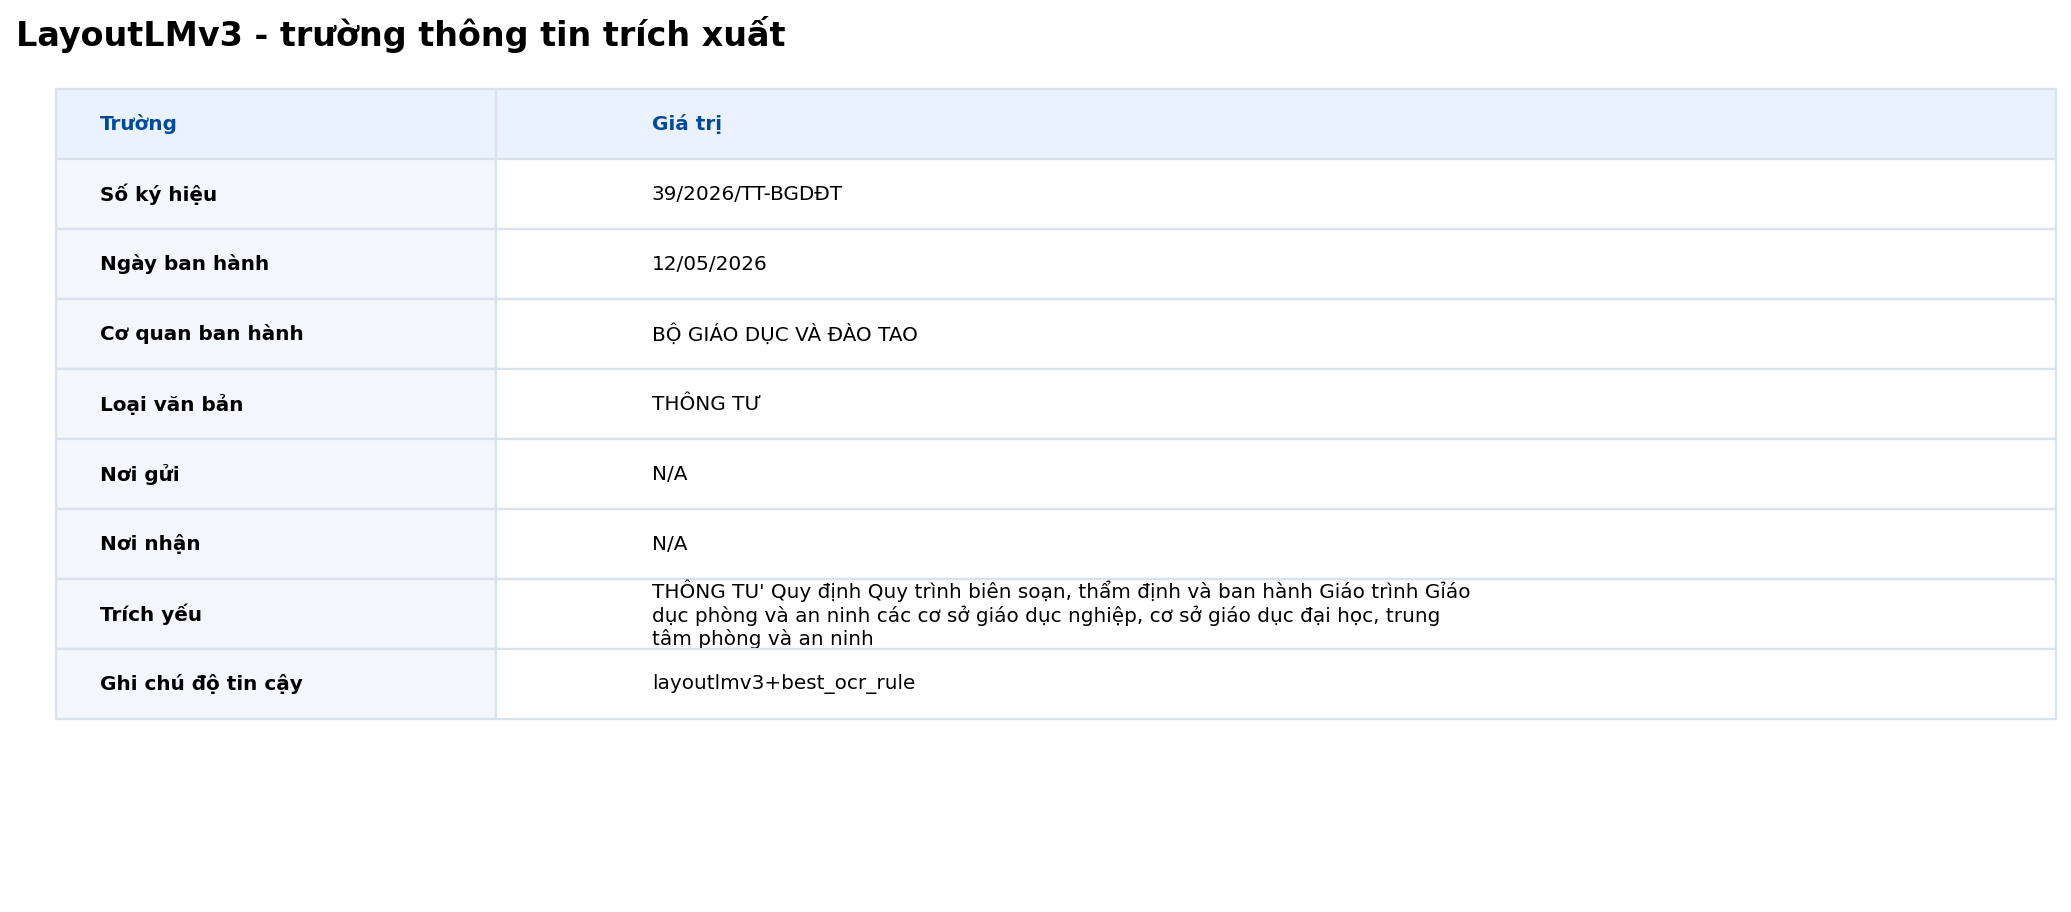
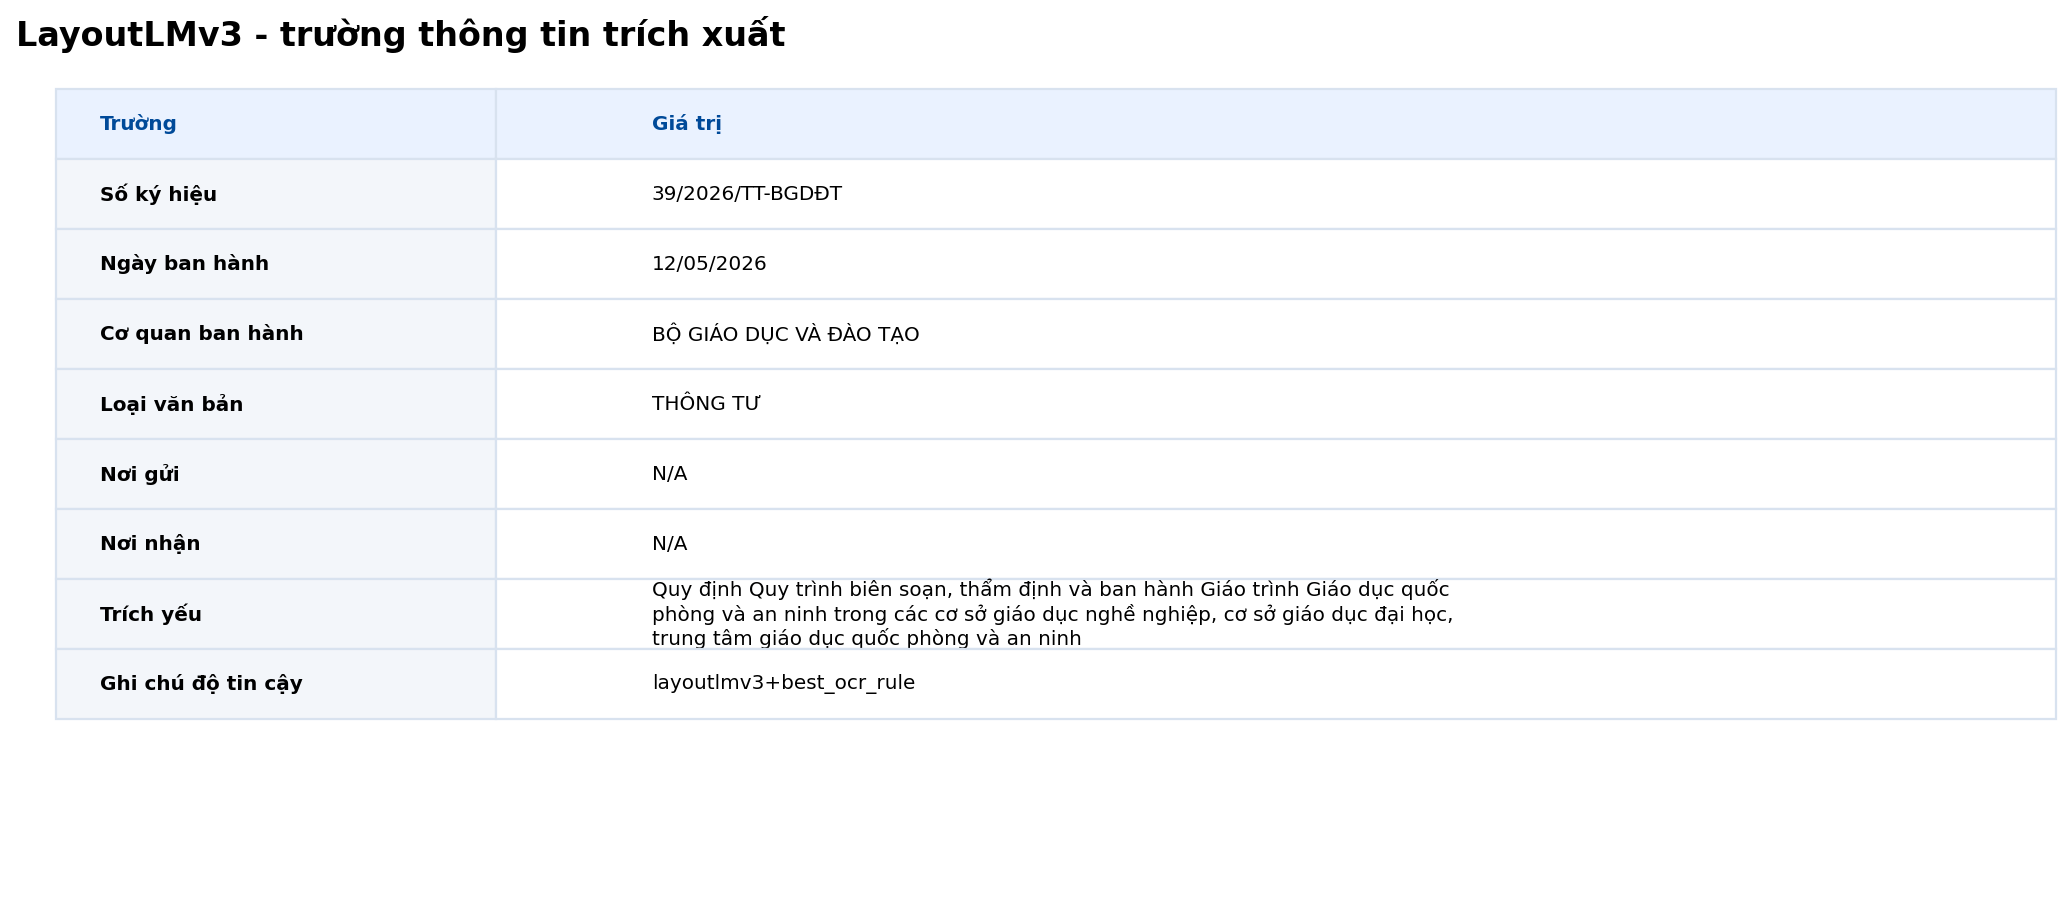
Update benchmark report with refreshed LayoutLMv3 fields

Changed region(s): [[0.309, 0.614, 0.7108, 0.7061]]

diff --git a/reports/benchmark_technical_report/OCR_BENCHMARK_TECHNICAL_REPORT.md b/reports/benchmark_technical_report/OCR_BENCHMARK_TECHNICAL_REPORT.md
@@ -3,7 +3,7 @@
 **Đề tài:** Ứng dụng OCR kết hợp chữ ký số trong quản lý công văn điện tử tiếng Việt  
 **Dữ liệu phân tích:** toàn bộ kết quả đã scan trong thư mục `jobs/`, phân tích sâu job mới nhất `2bbba632396d`  
 **File scan mới nhất:** `upload\39-bgddt.pdf`  
-**Thời điểm cập nhật số liệu:** 2026-06-01 23:48:11  
+**Thời điểm cập nhật số liệu:** 2026-06-02 05:05:32  
 
 ## 1. Tóm tắt nghiên cứu
 
@@ -221,18 +221,18 @@ OCR và LayoutLMv3 có vai trò khác nhau. OCR nhận dạng chữ từ ảnh; 
 | Torch device | `cuda` |
 | Field label schema | `True` |
 | Field source | `layoutlmv3+best_ocr_rule` |
-| Accepted model fields | `0` |
+| Accepted model fields | `2` |
 | Rejected model fields | `1` |
 
 | Trường | Giá trị trích xuất | Nguồn/nhận xét |
 |---|---|---|
 | Số ký hiệu | 39/2026/TT-BGDĐT | layoutlmv3+best_ocr_rule |
 | Ngày ban hành | 12/05/2026 | layoutlmv3+best_ocr_rule |
-| Cơ quan ban hành | BỘ GIÁO DỤC VÀ ĐÀO TAO | layoutlmv3+best_ocr_rule |
+| Cơ quan ban hành | BỘ GIÁO DỤC VÀ ĐÀO TẠO | layoutlmv3+best_ocr_rule |
 | Loại văn bản | THÔNG TƯ | layoutlmv3+best_ocr_rule |
 | Nơi gửi | N/A | layoutlmv3+best_ocr_rule |
 | Nơi nhận | N/A | layoutlmv3+best_ocr_rule |
-| Trích yếu | THÔNG TU' Quy định Quy trình biên soạn, thẩm định và ban hành Giáo trình Gỉáo dục phòng và an ninh các cơ sở giáo dục nghiệp, cơ sở giáo dục đại học, trung tâm phòng và an ninh | layoutlmv3+best_ocr_rule |
+| Trích yếu | Quy định Quy trình biên soạn, thẩm định và ban hành Giáo trình Giáo dục quốc phòng và an ninh trong các cơ sở giáo dục nghề nghiệp, cơ sở giáo dục đại học, trung tâm giáo dục quốc phòng và an ninh | layoutlmv3+best_ocr_rule |
 
 LayoutLMv3 thật đã chạy bằng transformers từ model local. Trong job mới nhất, field do model dự đoán chưa được guard chấp nhận hoàn toàn, nên metadata cuối cùng được merge với rule fallback. Cách làm này giúp giảm nguy cơ ghi sai metadata vào hồ sơ công văn.
 